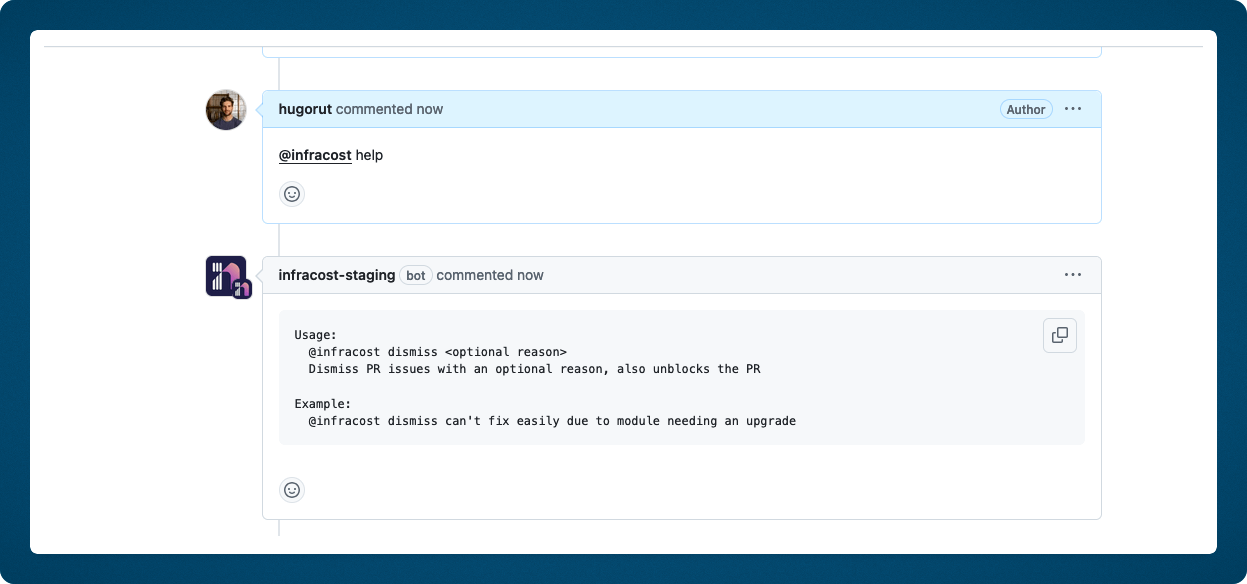
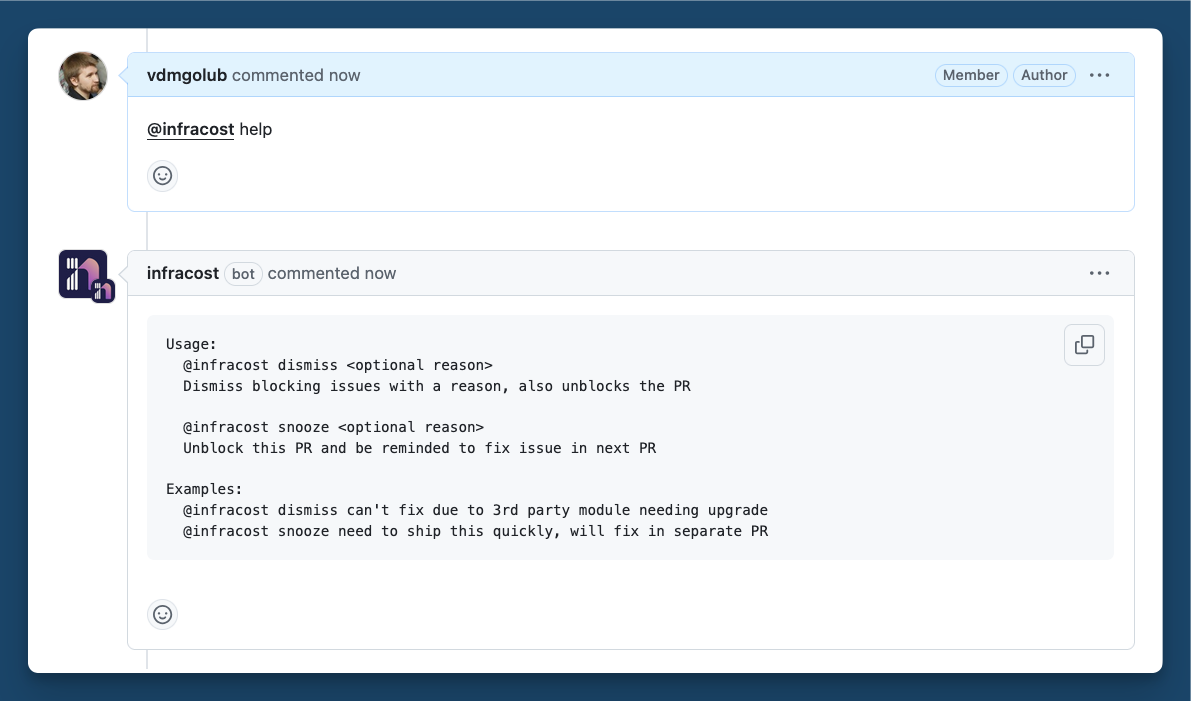
docs: Add description of @infracost snooze command (#692)

diff --git a/src/css/docs.css b/src/css/docs.css
@@ -388,6 +388,9 @@ blockquote {
   box-shadow: 5px 5px 2px 0 var(--nu50);
 }
 
+img.img-rounded  {
+  border-radius: var(--ifm-code-border-radius);
+}
 
 @media (min-width: 769px) {
   .ci-grid {

diff --git a/docs/integrations/github_app.md b/docs/integrations/github_app.md
@@ -99,28 +99,44 @@ The GitHub App automatically reflects the following changes in Infracost:
 
 From the Org Settings > Integrations > GitHub App page, you can disable pull request comments so cost estimates, guardrails and tagging policies are only shown in Infracost Cloud. This enables you to test these features without impacting engineering workflows.
 
-### Dismissing policy issues
+### Dismiss or snooze blocking policy issues
 
-Infracost FinOps and Tagging issues can be dismissed directly from the GitHub pull request UI, even if the policy is set to block pull requests. This allows engineers to ship critical changes without having to fix all issues. During non-emergency circumstances, we recommend engineers fix the issues they can, and dismiss any that they cannot fix.
+Infracost FinOps and Tagging issues can be dismissed or snoozed directly from the GitHub pull request UI, even if the policy is set to block pull requests. This allows engineers to ship critical changes without having to fix all issues. During non-emergency circumstances, we recommend engineers fix the issues they can, and dismiss/snooze any that they cannot fix.
 
-GitHub pull request comments contain information on how to dismiss issues.
+GitHub pull request comments contain information on how to dismiss/snooze the issues.
 
-<img src={useBaseUrl("img/github/desc.png")} alt="pr comment" />
+<img src={useBaseUrl("img/github/desc.png")} alt="pr comment" className="img-rounded" />
 
-Engineers can add a pull request comment `@infracost help` to get more information on how to dismiss the issues.
+Engineers can add a pull request comment `@infracost help` to get more information on how to dismiss/snooze the issues.
 
-<img src={useBaseUrl("img/github/help.png")} alt="help" />
+<img src={useBaseUrl("img/github/help.png")} alt="help" className="img-rounded" />
+
+#### Dismiss
+
+The dismiss command makes Infracost ignore the detected blocking issues going forward. If you simply need to unblock a PR merge and intend to address the issue later, consider using the snooze command.
 
 Dismissing a policy issue works as follows:
 - The engineer adds a comment to the pull request to dismiss the issue using the command `@infracost dismiss <optional reason>`.
 - The Infracost GitHub App will then read the comment and react to the comment to let the engineer know the issue is queued for dismissal.
-  <img src={useBaseUrl("img/github/reaction.png")} alt="reaction" />
-- Infracost will then run another status check on the pull request once the issue is dismissed. This will update the Infracost comment to remove all the issues.
-  <img src={useBaseUrl("img/github/passing.png")} alt="passing" />
+  <img src={useBaseUrl("img/github/reaction.png")} alt="reaction" className="img-rounded" />
+- Infracost will then run another status check on the pull request once the issue is dismissed. This will update the Infracost comment to remove all the blocking issues.
+  <img src={useBaseUrl("img/github/passing.png")} alt="passing" className="img-rounded" />
 - Any blocking status checks will be updated to succeeded, enabling the engineer to merge the pull request.
-  <img src={useBaseUrl("img/github/checks.png")} alt="checks" />
+  <img src={useBaseUrl("img/github/checks.png")} alt="checks" className="img-rounded" />
 - Dismissed issues are shown in Infracost Cloud in the policies pages. You can filter by dismissed issues to see all the issues your engineers have dismissed and their reasons.
-  <img src={useBaseUrl("img/github/dismissed-table.png")} alt="dismissed table" />  
+  <img src={useBaseUrl("img/github/dismissed-table.png")} alt="dismissed table" className="img-rounded" />  
+
+#### Snooze
+
+The snooze command allows you to unblock the merging of a PR when Infracost detects any blocking policy issues. This is useful for urgent tasks, such as bug fixes.
+
+Snoozing a blocked PR works as follows:
+- The engineer adds a comment to the pull request to snooze the issue using the command `@infracost snooze <optional reason>`.
+  <img src={useBaseUrl("img/github/snooze.png")} alt="snooze" className="img-rounded" />
+- The Infracost GitHub App will then read the comment and react to the comment to let the engineer know the issue is queued for snoozing.
+- Any blocking Infracost status checks will be updated to succeeded, enabling the engineer to merge the pull request.
+  <img src={useBaseUrl("img/github/snooze-checks.png")} alt="checks" className="img-rounded" />
+- The next opened PR that touches the related code will display a comment with the snoozed issues and block merging, just like the original.
 
 ### GitHub Actions to App migration
 
